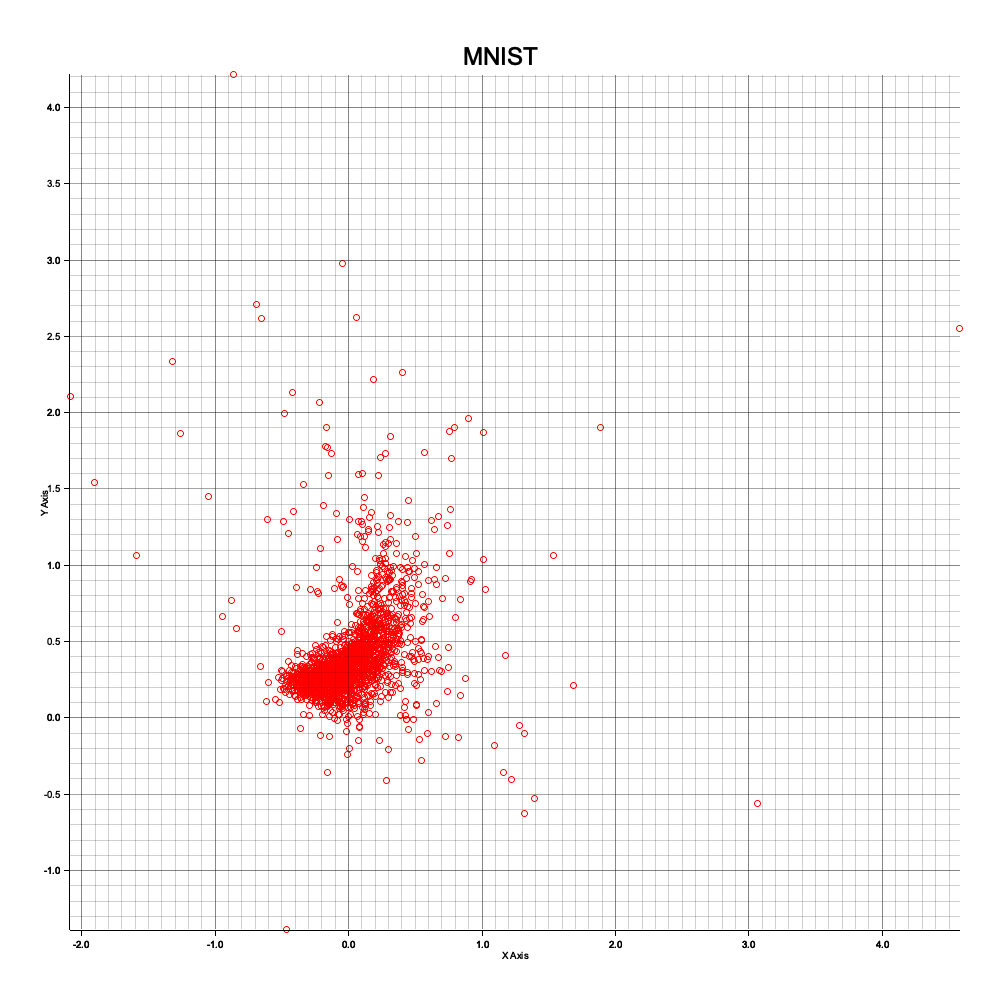
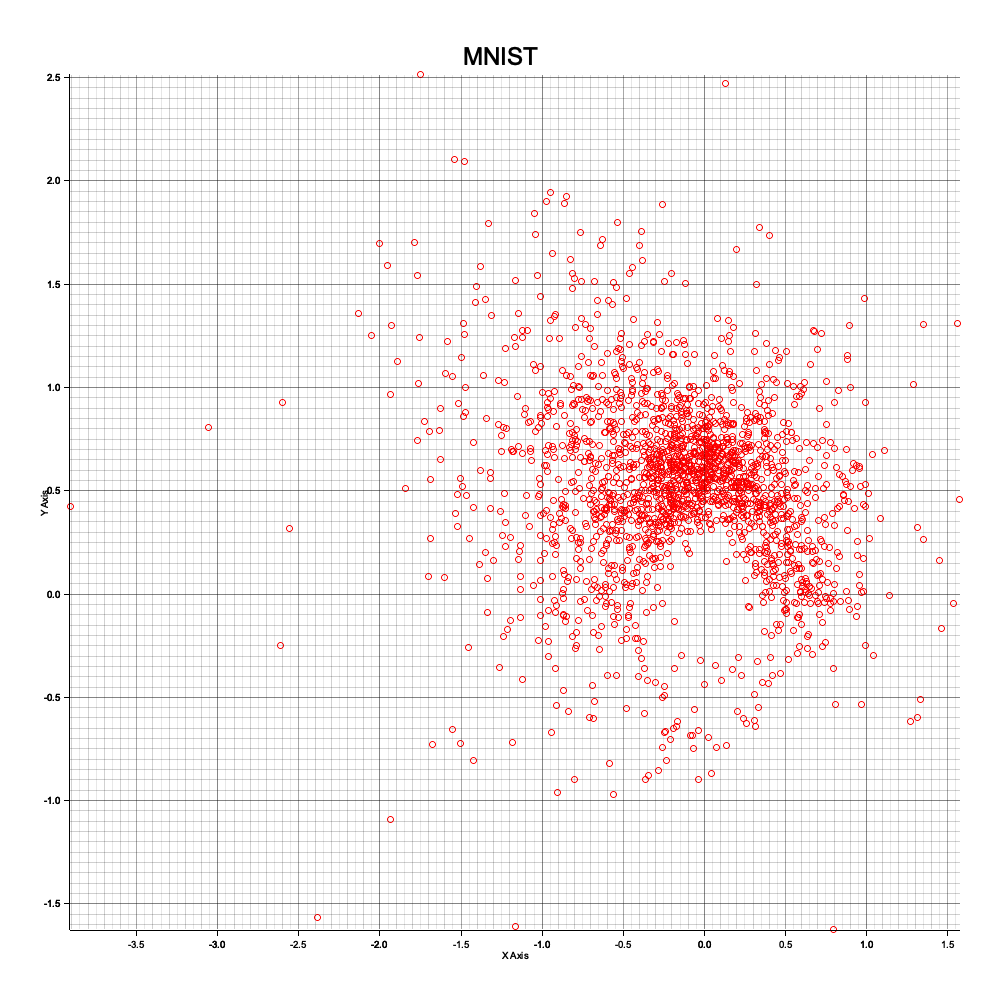
added normalize_tensor and manhattan distance

Changed region(s): [[0.031, 0.062, 0.961, 0.961]]

diff --git a/src/utils.rs b/src/utils.rs
@@ -3,7 +3,7 @@ use std::sync::Mutex;
 
 use burn::{
     prelude::Backend,
-    tensor::{Device, Tensor, TensorData},
+    tensor::{backend::AutodiffBackend, Device, Tensor, TensorData},
 };
 use prettytable::{row, Table};
 use rand::Rng;
@@ -210,4 +210,76 @@ pub fn normalize_data(data: &mut [f64], num_samples: usize, num_features: usize)
     // After parallel computation, copy the normalized data back to the original `data`
     let normalized_data = normalized_data.lock().unwrap();
     data.copy_from_slice(&normalized_data);
+}
+
+/// Normalizes a 1D tensor using min-max normalization.
+///
+/// This function performs min-max normalization on a 1D tensor, scaling its values
+/// to a range between 0 and 1. If the minimum and maximum values of the tensor are
+/// equal (i.e., the tensor has no variance), the original tensor is returned unmodified.
+///
+/// # Type Parameters
+///
+/// - `B`: The autodiff backend type. This should implement the `AutodiffBackend` trait,
+///   which provides support for automatic differentiation.
+///
+/// # Arguments
+///
+/// - `tensor`: A 1D tensor of type `Tensor<B, 1>`, which represents the input data to be normalized.
+///
+/// # Returns
+///
+/// - A new tensor of the same type and shape as the input tensor, with normalized values.
+///   If the minimum and maximum values of the tensor are equal, the original tensor is returned unchanged.
+///
+/// # Explanation
+///
+/// The normalization is performed using the following formula:
+///
+/// ```
+/// normalized = (tensor - min) / (max - min + epsilon)
+/// ```
+///
+/// Where:
+/// - `min`: The minimum value in the tensor.
+/// - `max`: The maximum value in the tensor.
+/// - `epsilon`: A small constant (`1e-6`) added to prevent division by zero, ensuring numerical stability.
+///
+/// The function first checks if the minimum and maximum values are equal. If they are, it avoids division by zero
+/// and simply returns the original tensor. If they are not equal, it applies the min-max normalization formula.
+///
+/// # Example
+///
+/// ```rust
+/// let tensor = Tensor::<B, 1>::from_data(vec![1.0, 2.0, 3.0], &device);
+/// let normalized_tensor = normalize_tensor(tensor);
+/// ```
+pub fn normalize_tensor<B: AutodiffBackend>(tensor: Tensor<B, 1>) -> Tensor<B, 1> {
+    let device = tensor.device();
+
+    // Normalize the result using min-max normalization:
+    let min_val = tensor.clone().min(); // Find the minimum value
+    let max_val = tensor.clone().max(); // Find the maximum value
+
+    // this is to prevent deleting by zero
+    let offset_val = Tensor::<B, 1>::from_data(TensorData::new(vec![1e-6], [1]), &device);
+
+    let are_equal = max_val
+        .clone()
+        .equal(min_val.clone())
+        .to_data()
+        .to_vec::<bool>()
+        .unwrap();
+
+    let are_equal = are_equal.first().unwrap();
+
+    // Avoid division by zero by ensuring max_val != min_val
+    let normalized = if !are_equal {
+        (tensor - min_val.clone()) / (max_val - min_val + offset_val)
+    } else {
+        tensor.clone() // If all values are the same, return the original
+    };
+
+    // Return the normalized sum of the top K distances
+    normalized
 }

diff --git a/src/train/config.rs b/src/train/config.rs
@@ -11,6 +11,16 @@ pub enum LossReduction {
 pub enum Metric {
     Euclidean,
     EuclideanKNN,
+    // EuclideanWeighted,
+    Manhattan,
+    // Cosine,
+    // Correlation,
+    // Hamming,
+    // Jaccard,
+    // Minkowski,
+    // Chebyshev,
+    // Mahalnobis,
+    // Spearman, // Spearman’s Rank Correlation Distance
 }
 
 // Implement From<&str> for Metric
@@ -19,6 +29,7 @@ impl From<&str> for Metric {
         match s.to_lowercase().as_str() {
             "euclidean" => Metric::Euclidean,
             "euclideanknn" | "euclidean_knn" => Metric::EuclideanKNN,
+            "manhattan" => Metric::Manhattan,
             _ => panic!("Invalid metric type: {}", s),
         }
     }
@@ -30,6 +41,7 @@ impl fmt::Display for Metric {
         match self {
             Metric::Euclidean => write!(f, "Euclidean"),
             Metric::EuclideanKNN => write!(f, "Euclidean KNN"),
+            Metric::Manhattan => write!(f, "Manhattan"),
         }
     }
 }

diff --git a/src/distances.rs b/src/distances.rs
@@ -1,5 +1,7 @@
 use burn::tensor::{backend::AutodiffBackend, Tensor, TensorData};
 
+use crate::normalize_tensor;
+#[allow(unused)]
 use crate::print_tensor_with_title;
 
 /// Calculate the pairwise Euclidean distance matrix for a given 2D tensor
@@ -113,4 +115,15 @@ pub fn euclidean_knn<B: AutodiffBackend>(x: Tensor<B, 2>, k: usize) -> Tensor<B,
 
     // Return the normalized sum of the top K distances
     normalized_distances
+}
+
+pub fn manhattan<B: AutodiffBackend>(tensor: Tensor<B, 2>) -> Tensor<B, 1> {
+    let n_samples = tensor.dims()[0];
+    // Sum the absolute difference along the rows (axis 1)
+    let x = tensor
+        .abs() // Take absolute value
+        .sum_dim(1)
+        .reshape([n_samples]); // Sum along axis 1 (columns)
+
+    normalize_tensor(x)
 }

diff --git a/examples/mnist.rs b/examples/mnist.rs
@@ -37,7 +37,7 @@ fn main() {
     let verbose = true; // Whether to enable the progress bar during training
     let patience = 100; // Number of epochs without improvement before early stopping
     let min_desired_loss = 0.0001; // Minimum loss threshold for early stopping
-    let metric = Metric::EuclideanKNN; // Alternative metric for neighbors search
+    let metric = Metric::Manhattan; // Alternative metric for neighbors search
     let loss_reduction = LossReduction::Sum;
 
     // let timeout = 60; // timeout in seconds

diff --git a/src/train/get_distance_by_metric.rs b/src/train/get_distance_by_metric.rs
@@ -35,5 +35,6 @@ pub fn get_distance_by_metric<B: AutodiffBackend>(
     match config.metric {
         Metric::Euclidean => euclidean(data),
         Metric::EuclideanKNN => euclidean_knn(data, config.k_neighbors),
+        Metric::Manhattan => manhattan(data),
     }
 }

diff --git a/README.md b/README.md
@@ -18,7 +18,9 @@ See [documentation](https://docs.rs/crate/fast-umap/latest) for more.
 
 ## Roadmap
 
-- [ ] Add MNIST dataset example. add intermediary plots. move charting into a feature. add labels in the plots.
+- [x] Add MNIST dataset example. add intermediary plots.
+- [ ] move charting into a feature.
+- [ ] add labels in the plots.
 - [x] Implement batches, **accumulated gradient**
 - [ ] precompute inital local fitting with the PCA
 - [ ] Create testbench to compare different hyper parameters (`patience` vs `n_features` vs `epochs` etc.)
